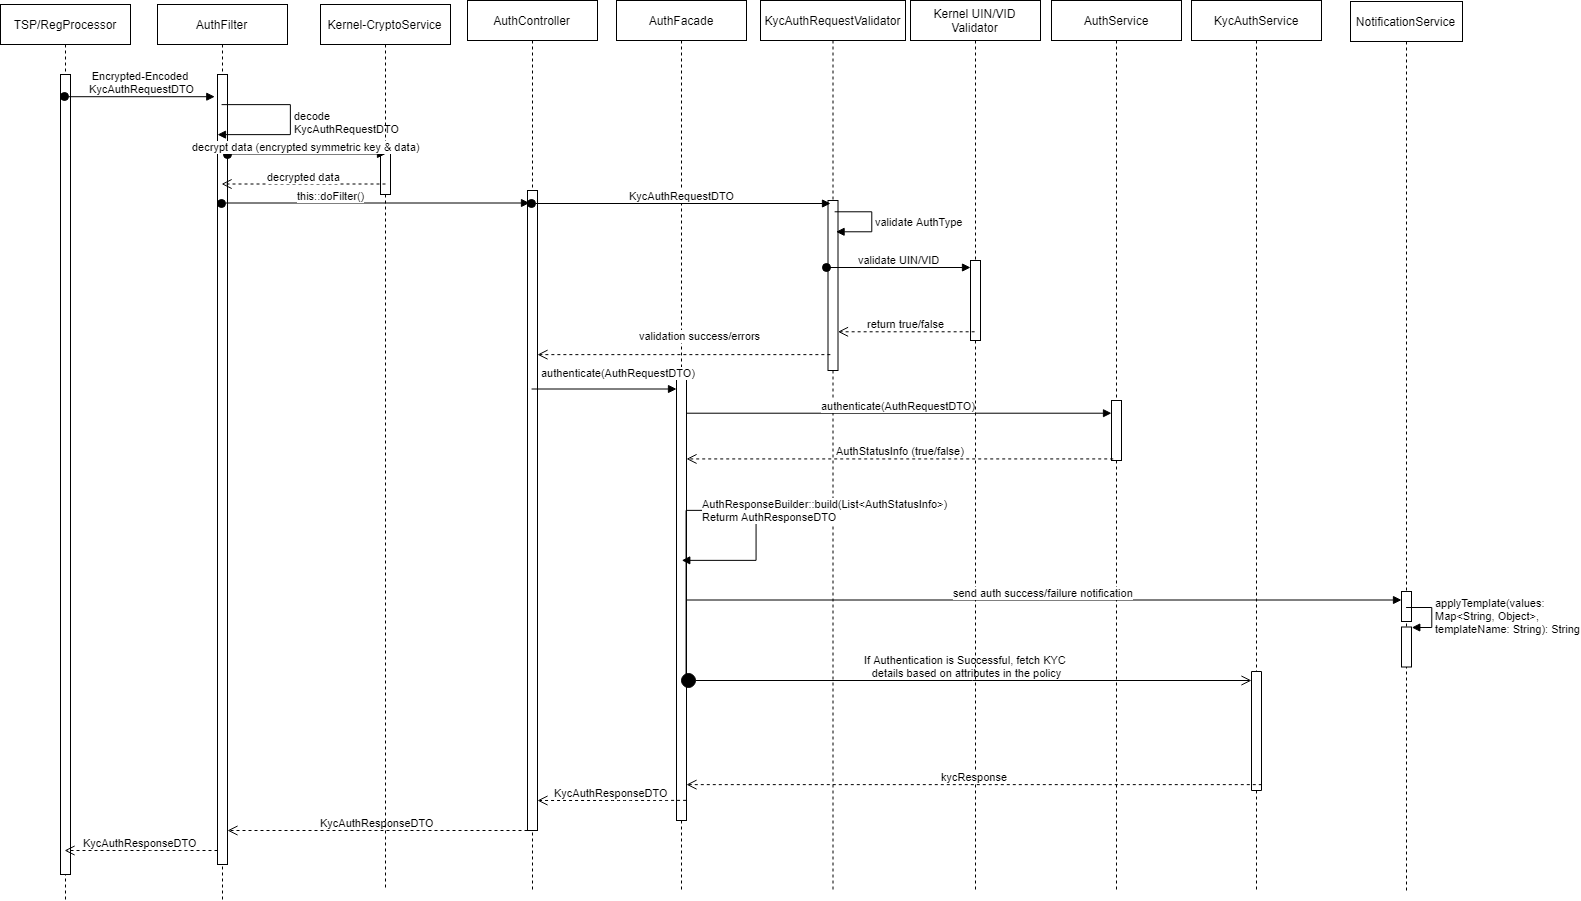
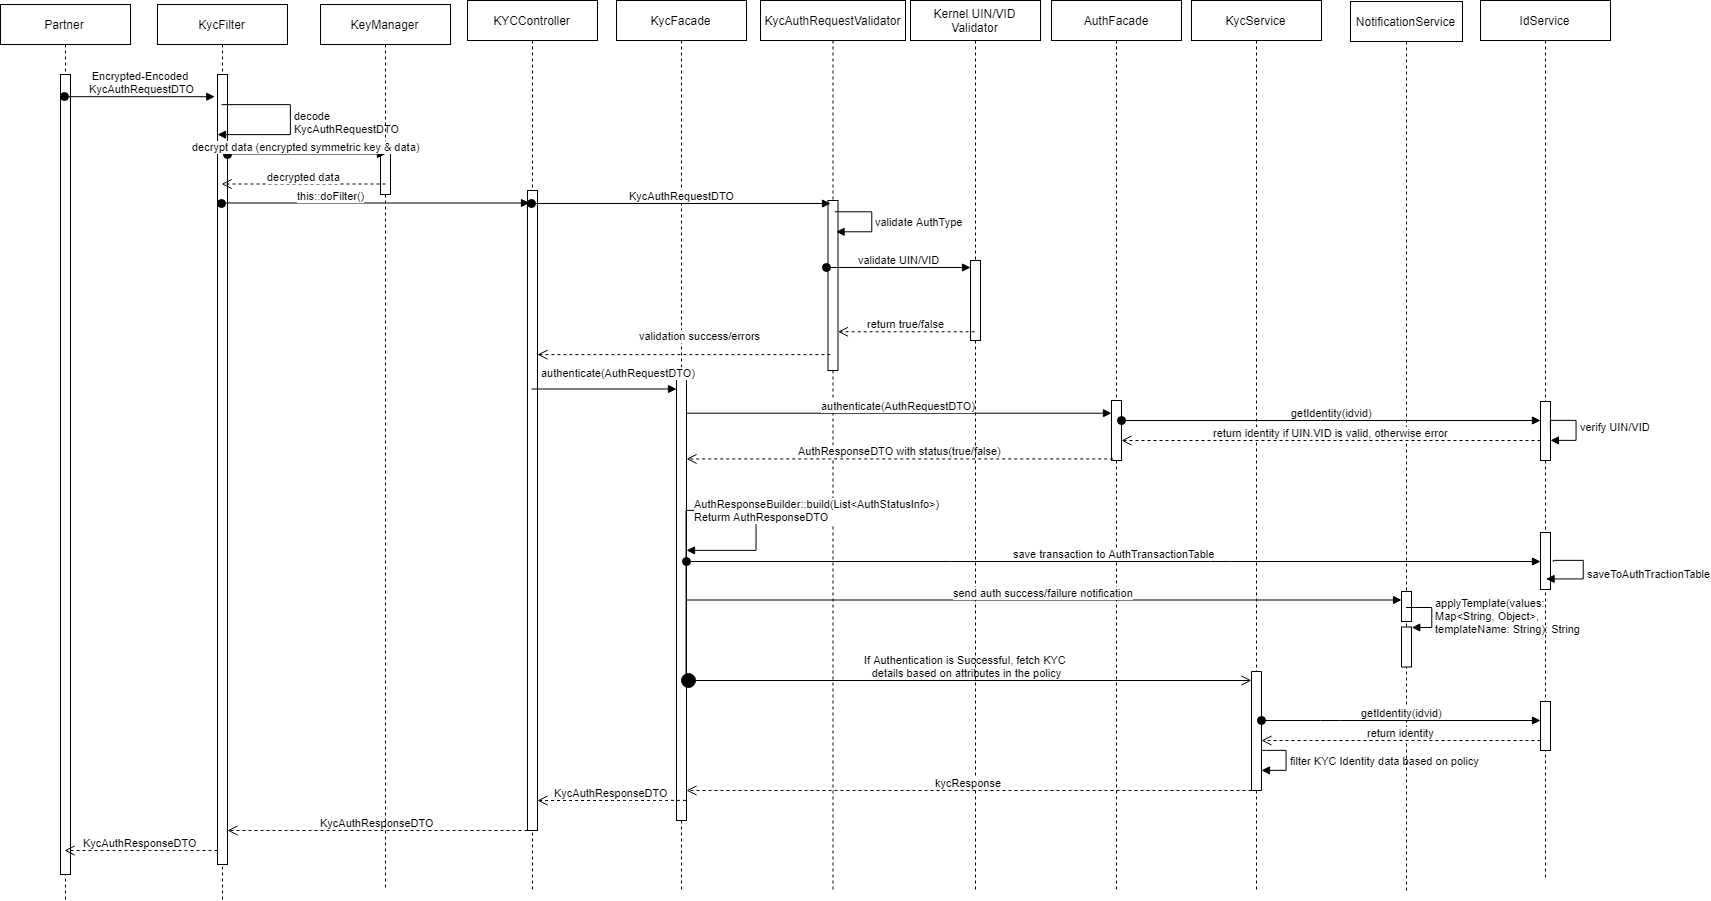
MOS-24581 Updated kyc/demo auth designs. Removed VID design.
Former-commit-id: 9c44a2bafce37ac6dd50ba928ec5103dd60f2fd1
Former-commit-id: 708824445788dd6468a04dbfadf74897cf708e8c
Former-commit-id: 6ebda51b13b0c57d5e518929f3209953dc0340f6

diff --git a/docs/design/authentication/Demo_Auth_Request_REST_Service.md b/docs/design/authentication/Demo_Auth_Request_REST_Service.md
@@ -68,7 +68,7 @@ The below class diagram shows relationship between all the classes which are req
 **3. Proxy Implementations -**   
 Below are the proxy implementations used in ID-Authentication:
 - ***MISP verification*** - Mocked the verification of MISP based on the using mocked *License Key*.
-- ***Partner verification*** - Mocked the verification of Partner based on Mocked *Policy* for the partner which provides the information on whether the OTP Authentication request is allowed.
+- ***Partner verification*** - Mocked the verification of Partner based on Mocked *Policy* for the partner which provides the information on whether the Demographic Authentication request is allowed.
 - ***MOSIP public key for encrypting Request block*** - The public key used for decrypting the request would be published in Partner Management Service, which is currently mocked using referenceID **"PARTNER"**, and the same should be used while encrypting the request.
 - ***keyIndex*** - No validation has been added for keyIndex which is present in the Authentication Request. This will be part of V2 implementation when Kernel Crypto would accept keyIndex based key validation.
 - ***Digital Signature*** - Any digital signature added in the Authentication request is currently not validated.
